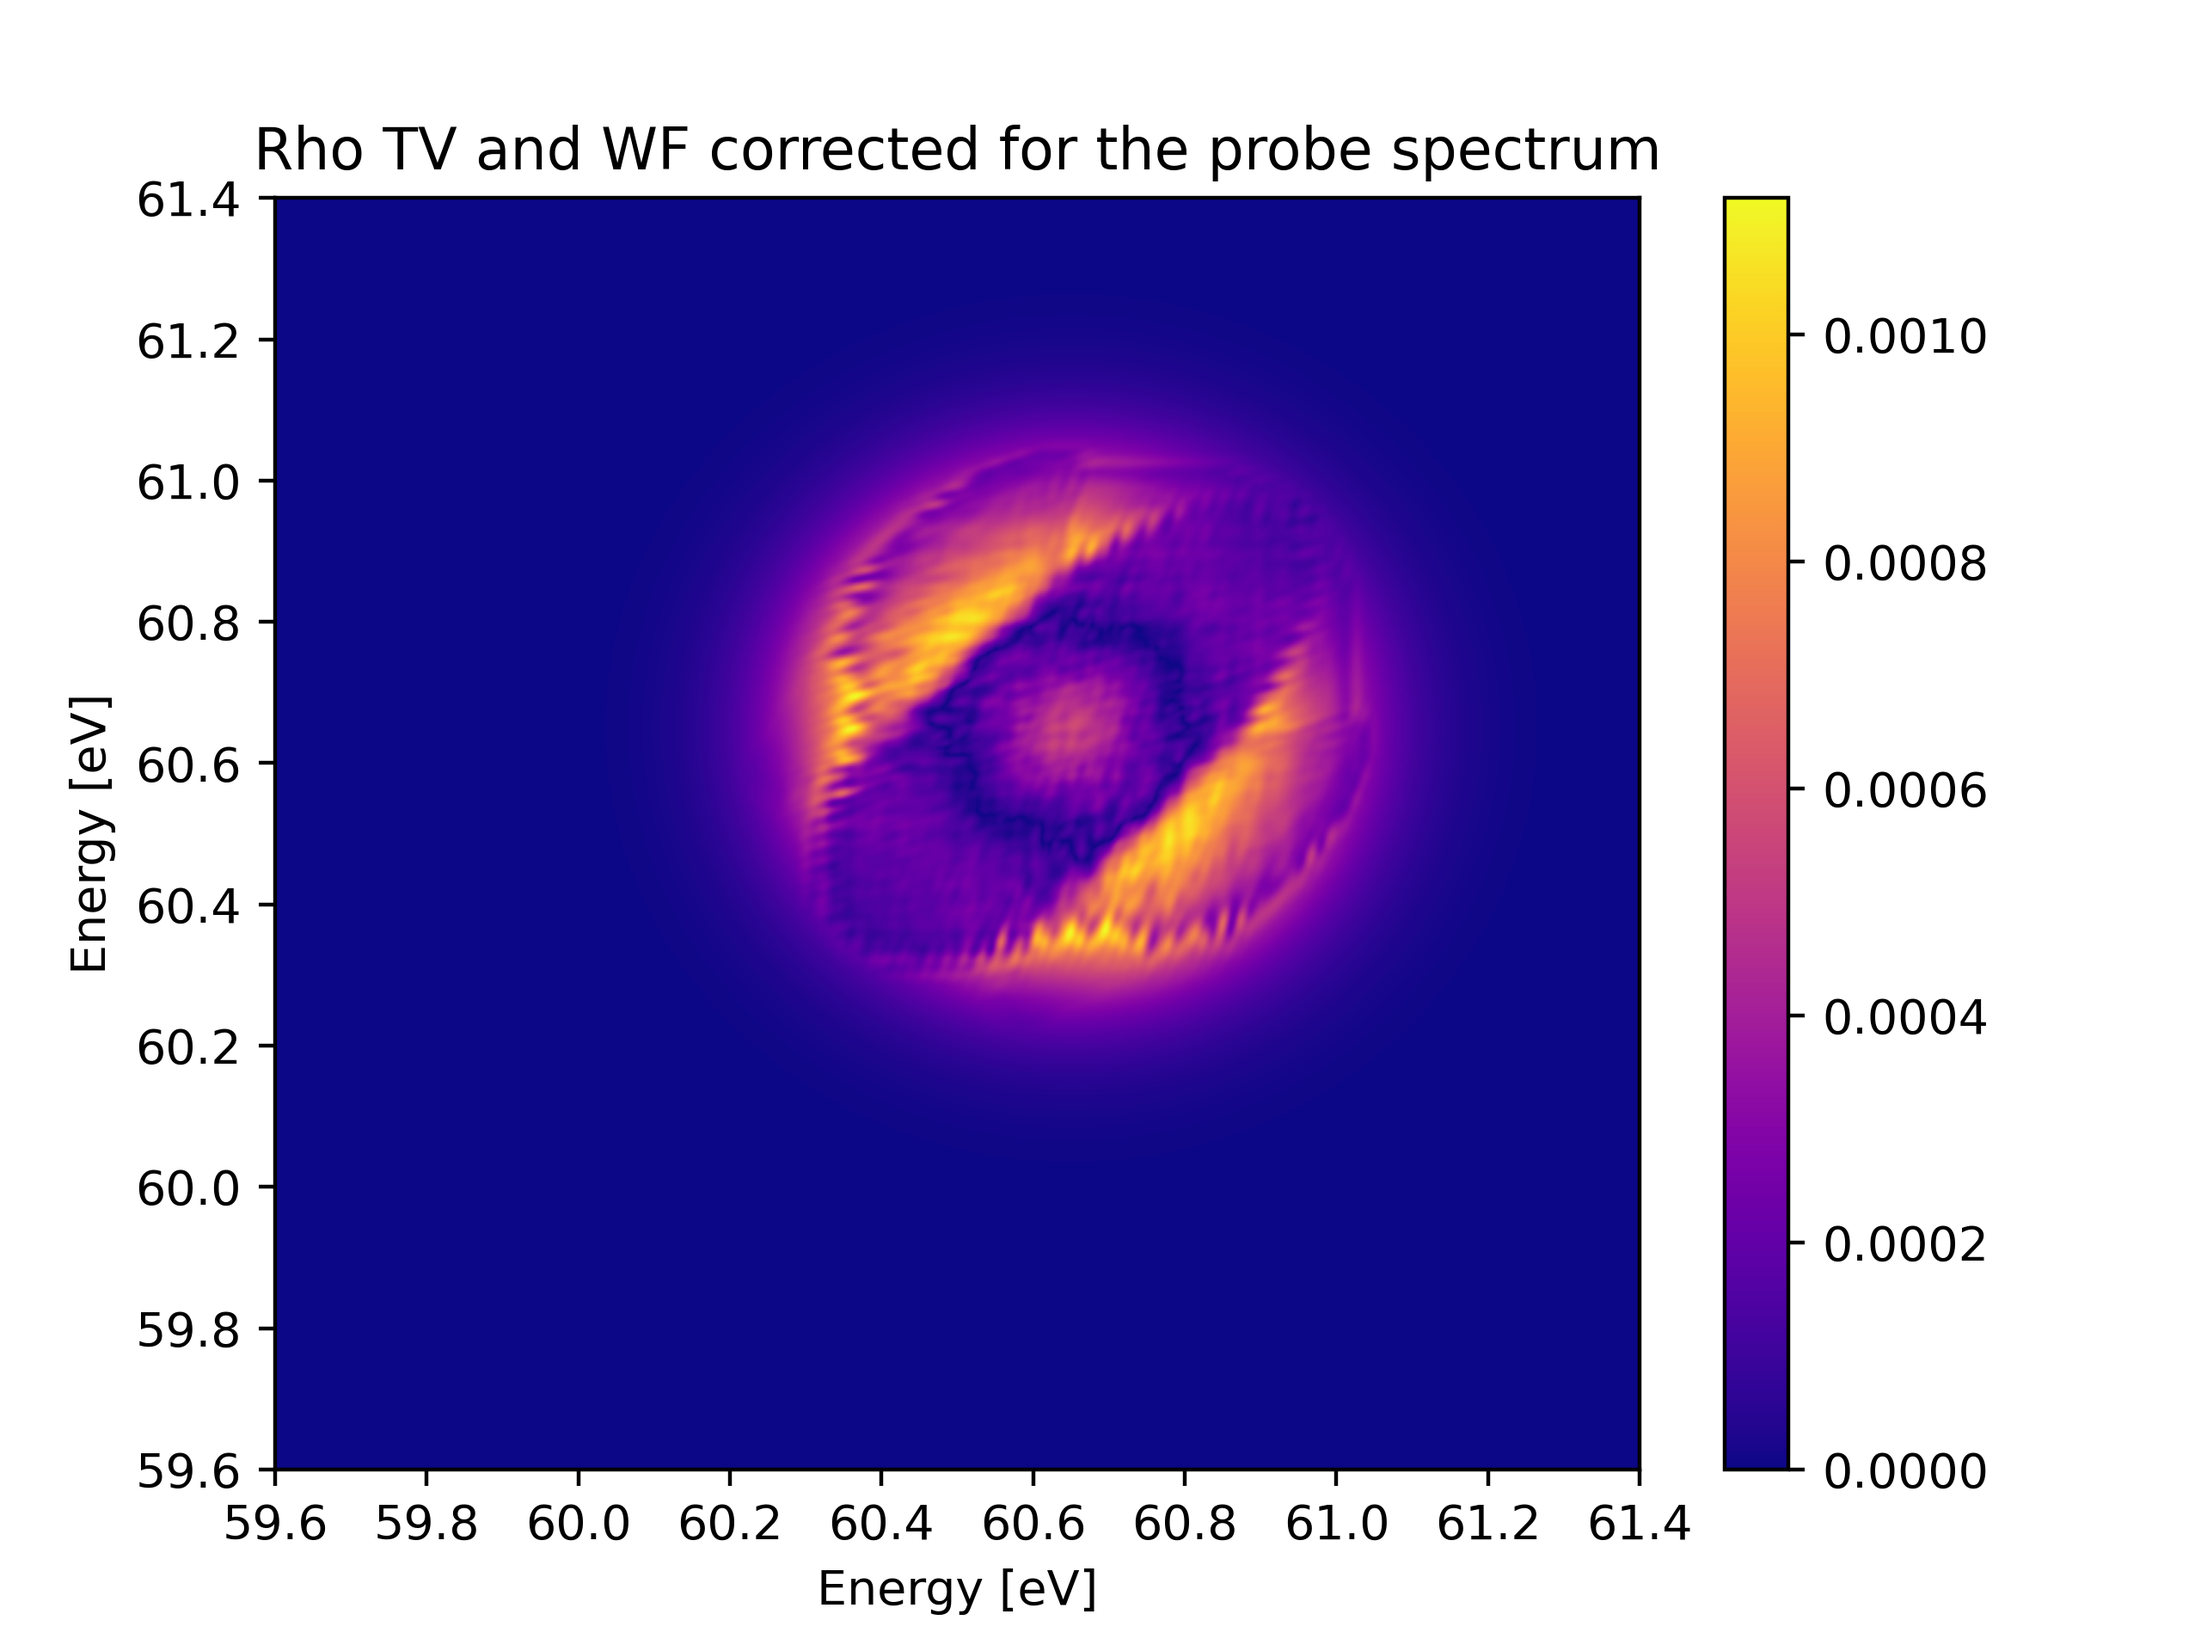
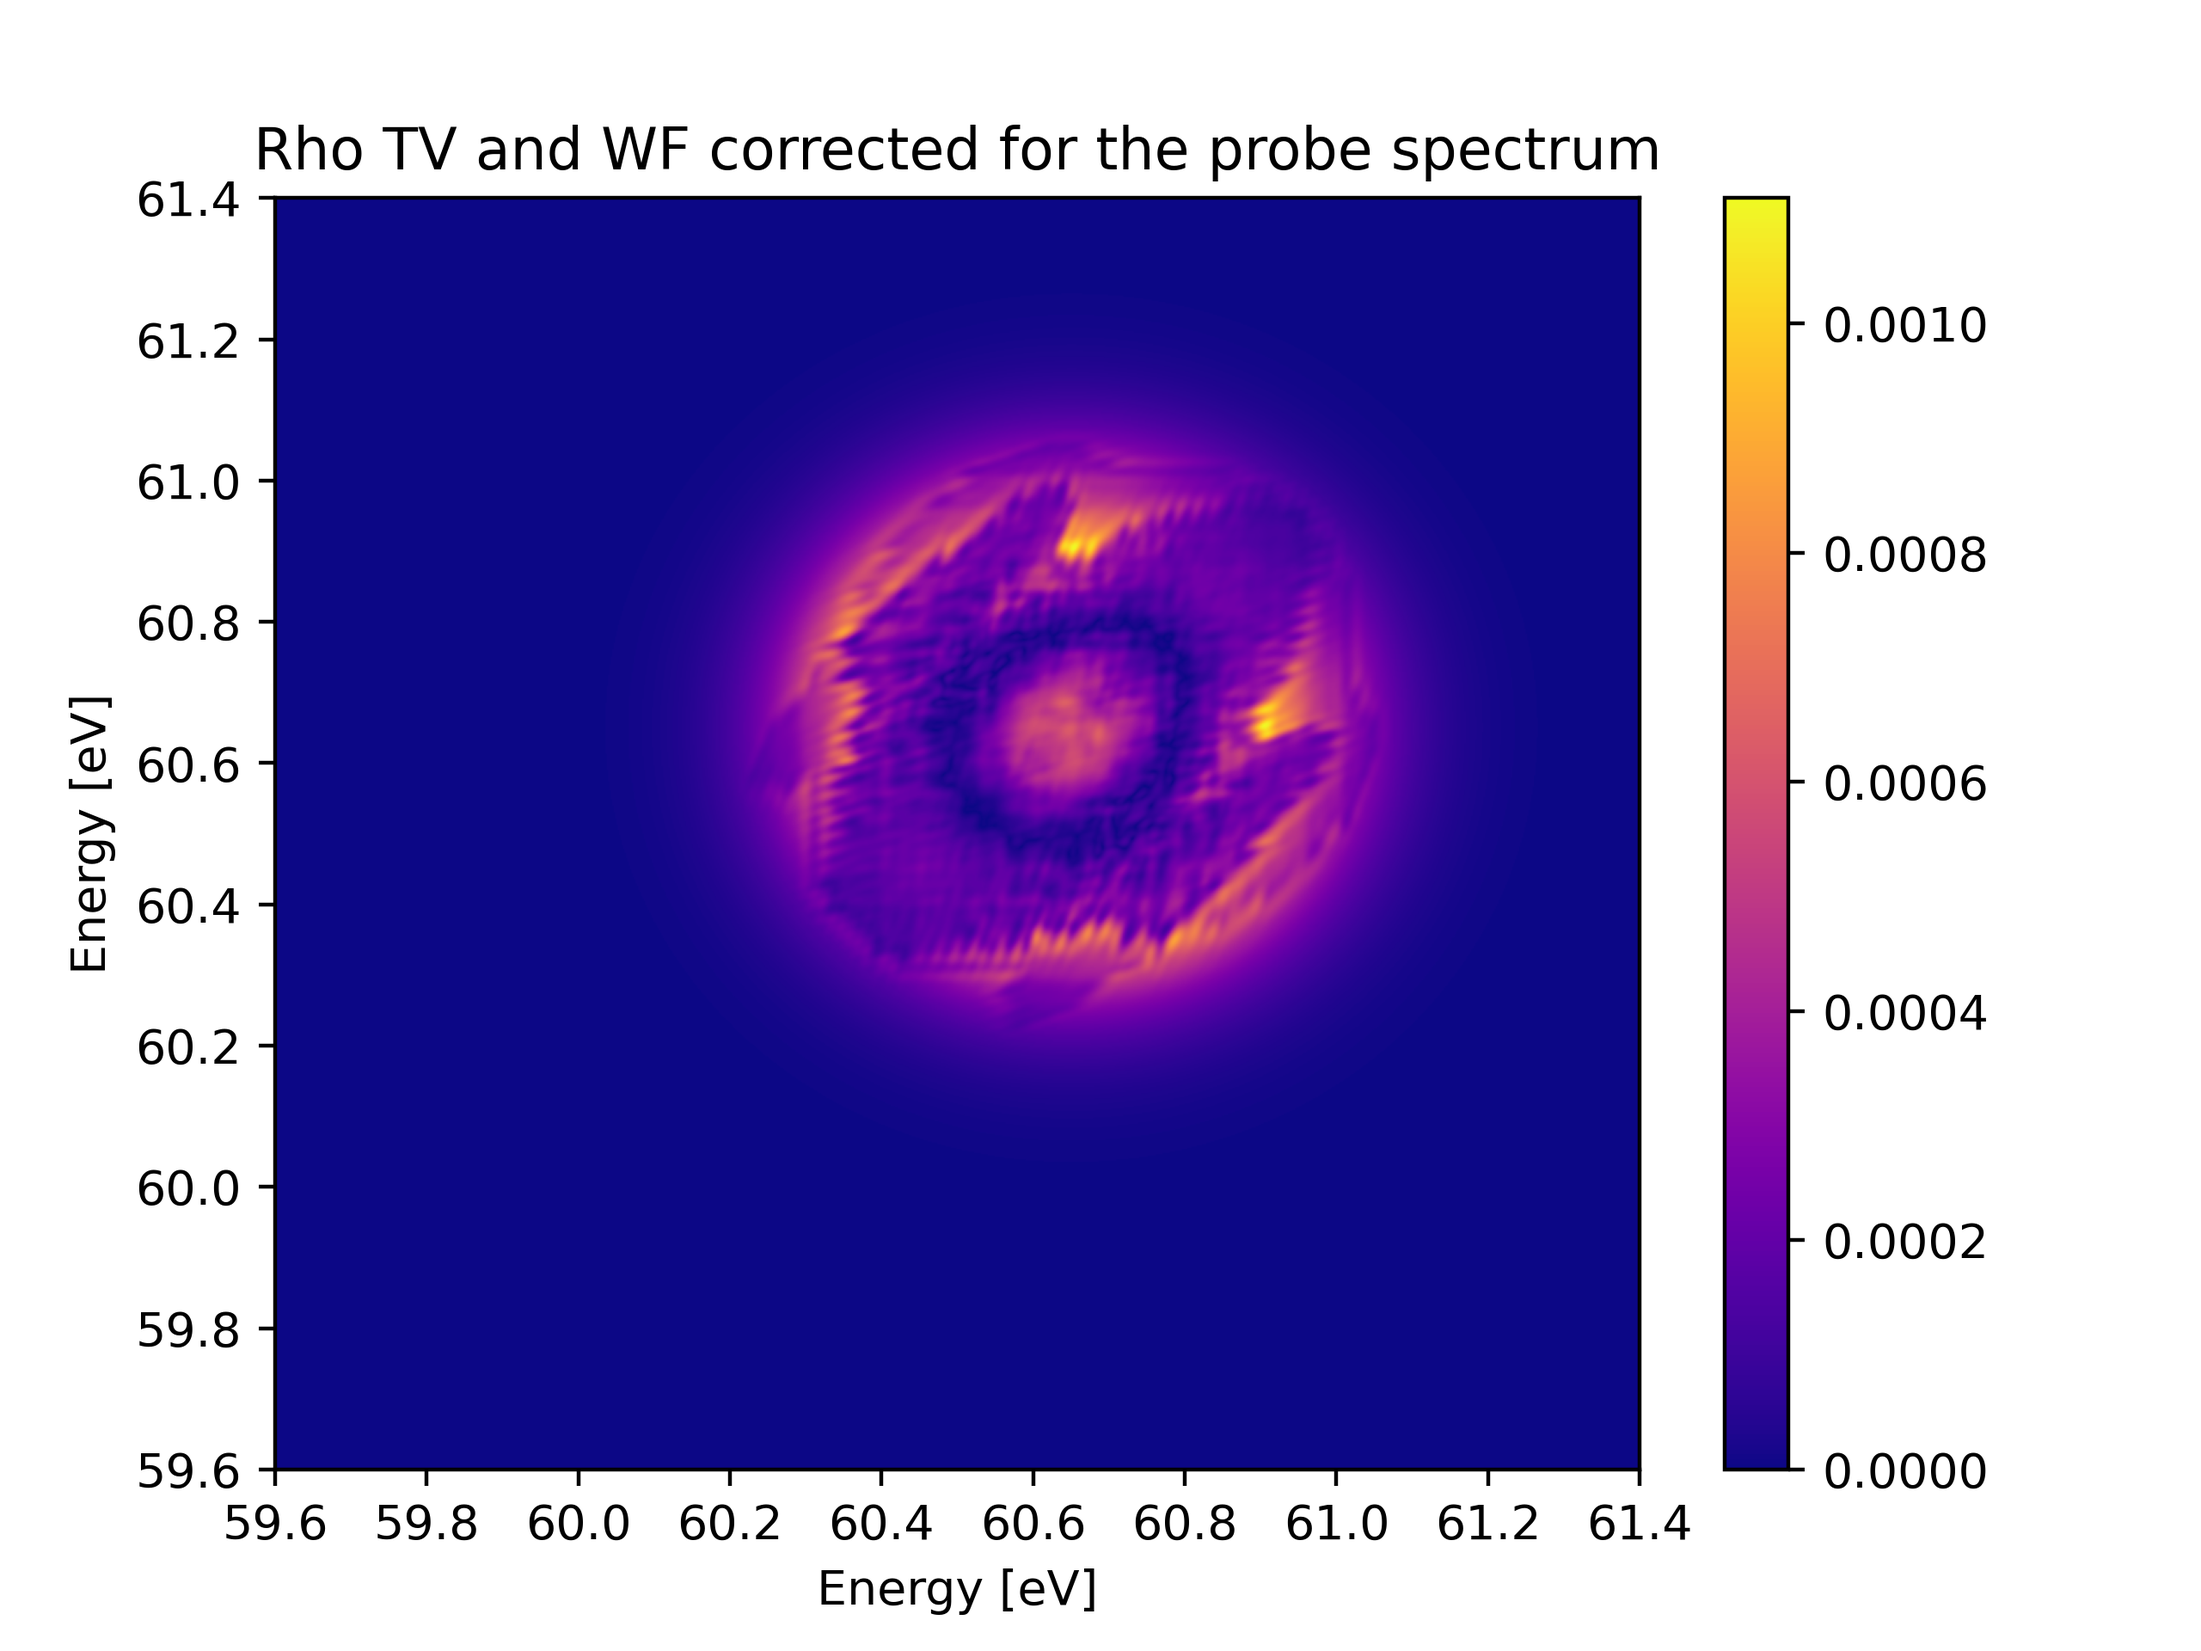
Turns out there was mistake in gauss fitting form which made output incompatible with correcting fun. Fixed now

diff --git a/WF_pipeline.py b/WF_pipeline.py
@@ -296,7 +296,7 @@ def _sum_n_gauss1d(y, *theta):
         s = theta[3*k + 2]
         if s <= 0:
             continue
-        out += A * np.exp(-0.5 * ((y - mu) / s) ** 2)
+        out += A/(2*s) * np.exp(-0.5 * ((y - mu) / s) ** 2)
     return out
 
 def fit_n_gaussians_1d(
@@ -579,7 +579,7 @@ def nfit_params_to_probes(params):
 
 #     return z
 
-def reconstruct_WirtFlow(sig_measrd,sp_probe,sp_xuv,om_probe,om_xuv,T,
+def reconstruct_WirtFlow(sig_measrd,sp_probe,sp_xuv,om_probe,om_xuv,T,b_est,
                          n_power_iter=50,n_main_iter=10000,mu_step_max=0.06,I_warmup=1000,ifplot=50):
 
     n_t, n_e = sig_measrd.shape
@@ -619,12 +619,12 @@ def reconstruct_WirtFlow(sig_measrd,sp_probe,sp_xuv,om_probe,om_xuv,T,
 
 
         # sbhermit_arg = (np.abs(sbforward)**2 - sig_measrd) * sbforward  GAUSSIAN WF
-        lambda_arr = np.abs(sbforward)**2 + b
-        sbhermit_arg = (1 - (sig_measrd+b)/lambda_arr) * sbforward # POISSON WF (??)
+        lambda_arr = np.abs(sbforward)**2 + b_est
+        sbhermit_arg = (1 - sig_measrd/lambda_arr) * sbforward # POISSON WF (??)
 
         grad = synth_baseline_hermit(sbhermit_arg,sp_xuv,om_probe,om_xuv,T)
 
-        weight_vec = (sig_measrd+b)/(lambda_arr)**2
+        weight_vec = sig_measrd/(lambda_arr)**2
         grad_forward = synth_baseline(grad,sp_xuv,om_probe,om_xuv,T)
         denom = np.sum(np.conjugate(grad_forward)*weight_vec*grad_forward)
         mu_step = np.sum(np.abs(grad)**2)/denom
@@ -981,13 +981,13 @@ noise_area_Elo, noise_area_Ehi = 0.0,0.3
 
 b_est = np.mean(signal[:,floor(noise_area_Elo*N_E):floor(noise_area_Ehi*N_E)])
 
-signal -= b
+signal -= b_est
 
 # import sgolay2
 # sg2 = sgolay2.SGolayFilter2(window_size=13,poly_order=3)
 # signal = sg2(signal)
 
-plot_mat(signal)
+# plot_mat(signal)
 
 amplit_tot_FT, OM_T, em_lo, em_hi = CFT(T_range,signal,use_window=False)
 
@@ -1015,7 +1015,7 @@ amplit_tot_FT_detrended_full[i1:sideband_hi,:] = amplit_tot_FT[N_T-sideband_hi+i
 ### KOAY-BASSER FULL SIGNAL CORRECTION
 ###
 
-tot_rician_full = np.sum(signal+b,axis=0)
+tot_rician_full = np.sum(signal+b_est,axis=0)
 
 # # --- Decompose RL reconstruction as a sum of n Gaussians and plot ---
 # n_comp = 6
@@ -1044,7 +1044,7 @@ for j in range(N_E):
 phase = np.angle(amplit_tot_FT)
 amplit_tot_FT = amp_corr * np.exp(1j*phase)
 
-plot_mat(amplit_tot_FT+1e-20)
+# plot_mat(amplit_tot_FT+1e-20)
 
 ###
 ### KOAY-BASSER PROBE SIGNAL CORRECTION
@@ -1079,16 +1079,16 @@ amplit_tot_FT_detrended_full = amp_corr * np.exp(1j*phase)
 pow_ana = np.abs(synth_bsln_FT)**2
 pow_mes = np.abs(amplit_tot_FT_detrended_full)**2
 
-plt.plot(np.mean(pow_ana[:1000,:],axis=0))
-plt.plot(np.mean(pow_mes[:1000,:],axis=0))
-plt.show()
+# plt.plot(np.mean(pow_ana[:1000,:],axis=0))
+# plt.plot(np.mean(pow_mes[:1000,:],axis=0))
+# plt.show()
 
 sig_probe_reconstructed,_,_,_ = CFT(T_range,amplit_tot_FT_detrended_full,use_window=False,inverse=True)
 
 # plot_mat(sig_probe_reconstructed)
 # plot_mat(synth_bsln)
 
-plot_mat((sig_probe_reconstructed - synth_bsln)/np.max(sig_probe_reconstructed))
+# plot_mat((sig_probe_reconstructed - synth_bsln)/np.max(sig_probe_reconstructed))
 
 ###
 ### XUV PEAK
@@ -1125,13 +1125,13 @@ fit_gauss = np.roll(fit_gauss, shift_cols)
 ### RETRIEVE PROBE SPECTRUM
 ###
 
-plot_mat(clip_amplitude(amplit_tot_FT,0,np.max(np.abs(amplit_tot_FT)/4)))
+# plot_mat(clip_amplitude(amplit_tot_FT,0,np.max(np.abs(amplit_tot_FT)/4)))
 
 amplit_tot_FT_re = np.real(amplit_tot_FT)
 amplit_tot_FT_im = np.imag(amplit_tot_FT)
 
-amplit_tot_FT_re = denoise_tv_bregman(amplit_tot_FT_re,weight=1)
-amplit_tot_FT_im = denoise_tv_bregman(amplit_tot_FT_im,weight=1)
+amplit_tot_FT_re = denoise_tv_bregman(amplit_tot_FT_re,weight=0.5)
+amplit_tot_FT_im = denoise_tv_bregman(amplit_tot_FT_im,weight=0.5)
 
 amplit_tot_FT_tv = amplit_tot_FT_re + 1j*amplit_tot_FT_im
 
@@ -1139,12 +1139,14 @@ amplit_tot_FT_tv = amplit_tot_FT_re + 1j*amplit_tot_FT_im
 amp_tv = threshold_noise(np.abs(amplit_tot_FT_tv),tot_rician_full)
 amplit_tot_FT_tv = amp_tv * np.exp(1j*np.angle(amplit_tot_FT_tv))
 
-plot_mat(clip_amplitude(amplit_tot_FT_tv,0,np.max(np.abs(amplit_tot_FT)/4)))
+# plot_mat(clip_amplitude(amplit_tot_FT_tv,0,np.max(np.abs(amplit_tot_FT)/4)))
 
 file = './rec_spectra/sp_probe.npy'
 
-sp_rec = reconstruct_WirtFlow(sig_probe_reconstructed,sp_probe,fit_gauss,om_probe,om_xuv,T,n_power_iter=50,n_main_iter=500,mu_step_max=0.01,I_warmup=300,ifplot=50)
-np.save(file,sp_rec)
+sig_probe_reconstructed = sig_probe_reconstructed + b_est
+
+# sp_rec = reconstruct_WirtFlow(sig_probe_reconstructed,sp_probe,fit_gauss,om_probe,om_xuv,T,b_est,n_power_iter=50,n_main_iter=500,mu_step_max=0.01,I_warmup=300,ifplot=50)
+# np.save(file,sp_rec)
 
 sp_rec = np.load(file)
 
@@ -1153,7 +1155,7 @@ n_comp = 12
 om_grid = om_probe
 # Use non-negative target for Gaussian fit
 
-z_target = np.real(sp_rec)
+z_target = np.abs(sp_rec)
 
 fit_gauss, fit_params = fit_n_gaussians_1d(
     y_vals=om_grid,
@@ -1163,16 +1165,16 @@ fit_gauss, fit_params = fit_n_gaussians_1d(
 
 probes_reconstructed = nfit_params_to_probes(fit_params)
 
-plt.figure()
-plt.plot(om_grid*hbar, normalize_abs(z_target), label='WF target')
-plt.plot(om_grid*hbar, normalize_abs(fit_gauss), label=f'{n_comp}-Gaussian fit')
-plt.plot(om_grid*hbar, normalize_abs(sp_probe), label='True spectrum')
-plt.xlabel('E - E0')
-plt.ylabel('Amplitude (normalized)')
-plt.title('n-Gaussian decomposition of RL reconstruction')
-plt.legend()
-plt.tight_layout()
-plt.show()
+# plt.figure()
+# plt.plot(om_grid*hbar, normalize_abs(z_target), label='WF target')
+# plt.plot(om_grid*hbar, normalize_abs(fit_gauss), label=f'{n_comp}-Gaussian fit')
+# plt.plot(om_grid*hbar, normalize_abs(sp_probe), label='True spectrum')
+# plt.xlabel('E - E0')
+# plt.ylabel('Amplitude (normalized)')
+# plt.title('n-Gaussian decomposition of RL reconstruction')
+# plt.legend()
+# plt.tight_layout()
+# plt.show()
 
 correction = correcting_function_multi(OM_T,E,pulse_xuv,probes,dzeta=1e-8)
 amplit_tot_FT_corrected = correction*amplit_tot_FT
